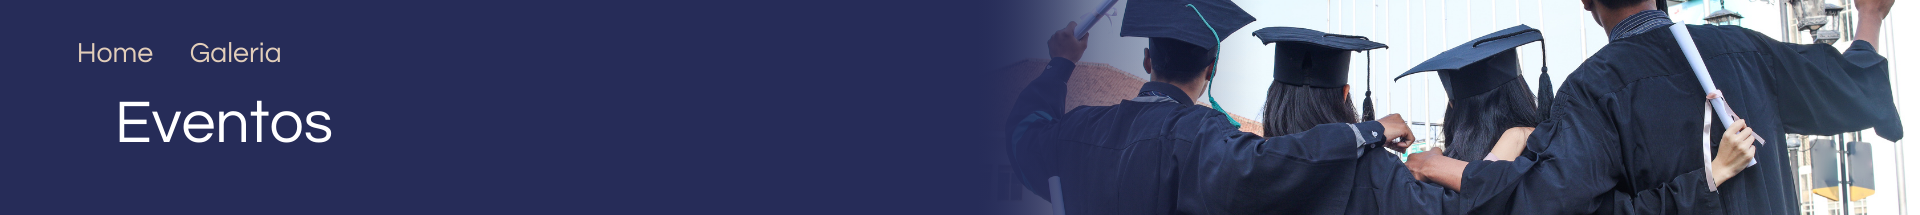
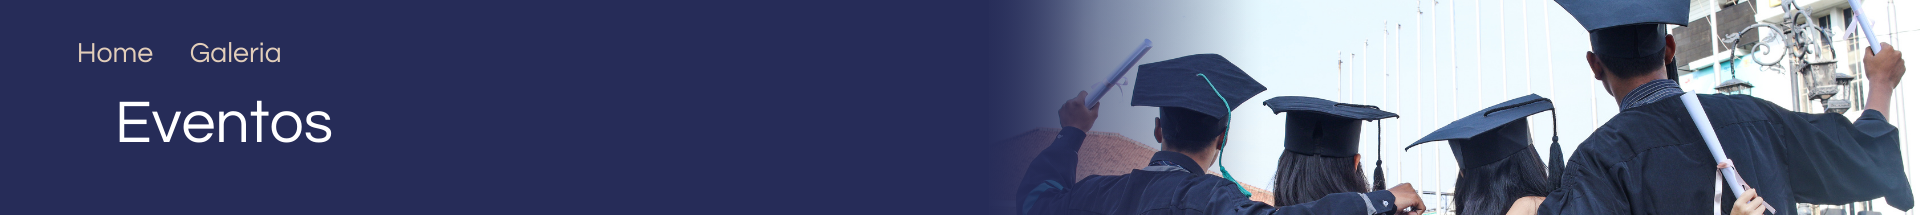
Bread - vitor
arrumei todos os bread crumps do site

Changed region(s): [[0.5312, 0.0, 1.0, 1.0]]

diff --git a/nossos-espacos/arquivos/quadra.html b/nossos-espacos/arquivos/quadra.html
@@ -333,7 +333,7 @@ header li a{
 /*BREADCRUMP*/
 
 .breadcrump{
-  background: url(../breads/breadquadra.jpeg);
+  background: url(../breads/breadquadra.png);
   background-position: center;
   background-repeat: no-repeat;
   background-size: cover;

diff --git a/nossos-espacos/arquivos/informatica.html b/nossos-espacos/arquivos/informatica.html
@@ -334,7 +334,7 @@ header li a{
 
 
 .breadcrump{
-  background: url(../breads/breadinformatica.jpeg);
+  background: url(../breads/breadinformatica.png);
   background-position: center;
   background-repeat: no-repeat;
   background-size: cover;

diff --git a/nossos-espacos/arquivos/laboratorio.html b/nossos-espacos/arquivos/laboratorio.html
@@ -333,7 +333,7 @@ header li a{
 
 
 .breadcrump{
-  background: url(../breads/breadlaboratorio.jpeg);
+  background: url(../breads/breadlaboratorio.png);
   background-position: center;
   background-repeat: no-repeat;
   background-size: cover;

diff --git a/nossos-espacos/arquivos/biblioteca.html b/nossos-espacos/arquivos/biblioteca.html
@@ -332,7 +332,7 @@ header li a{
 
 
 .breadcrump{
-  background: url(../breads/breadbiblioteca.jpeg);
+  background: url(../breads/breadbiblioteca.png);
   background-position: center;
   background-repeat: no-repeat;
   background-size: cover;

diff --git a/nossos-espacos/arquivos/refeitorio.html b/nossos-espacos/arquivos/refeitorio.html
@@ -335,7 +335,7 @@ header li a{
 
 
 .breadcrump{
-  background: url(../breads/breadrefeitorio.jpeg);
+  background: url(../breads/breadrefeitorio.png);
   background-position: center;
   background-repeat: no-repeat;
   background-size: cover;

diff --git a/nossos-espacos/arquivos/sala.html b/nossos-espacos/arquivos/sala.html
@@ -334,7 +334,7 @@ header li a{
 
 
 .breadcrump{
-  background: url(../breads/breadsala.jpeg);
+  background: url(../breads/breadsala.png);
   background-position: center;
   background-repeat: no-repeat;
   background-size: cover;
